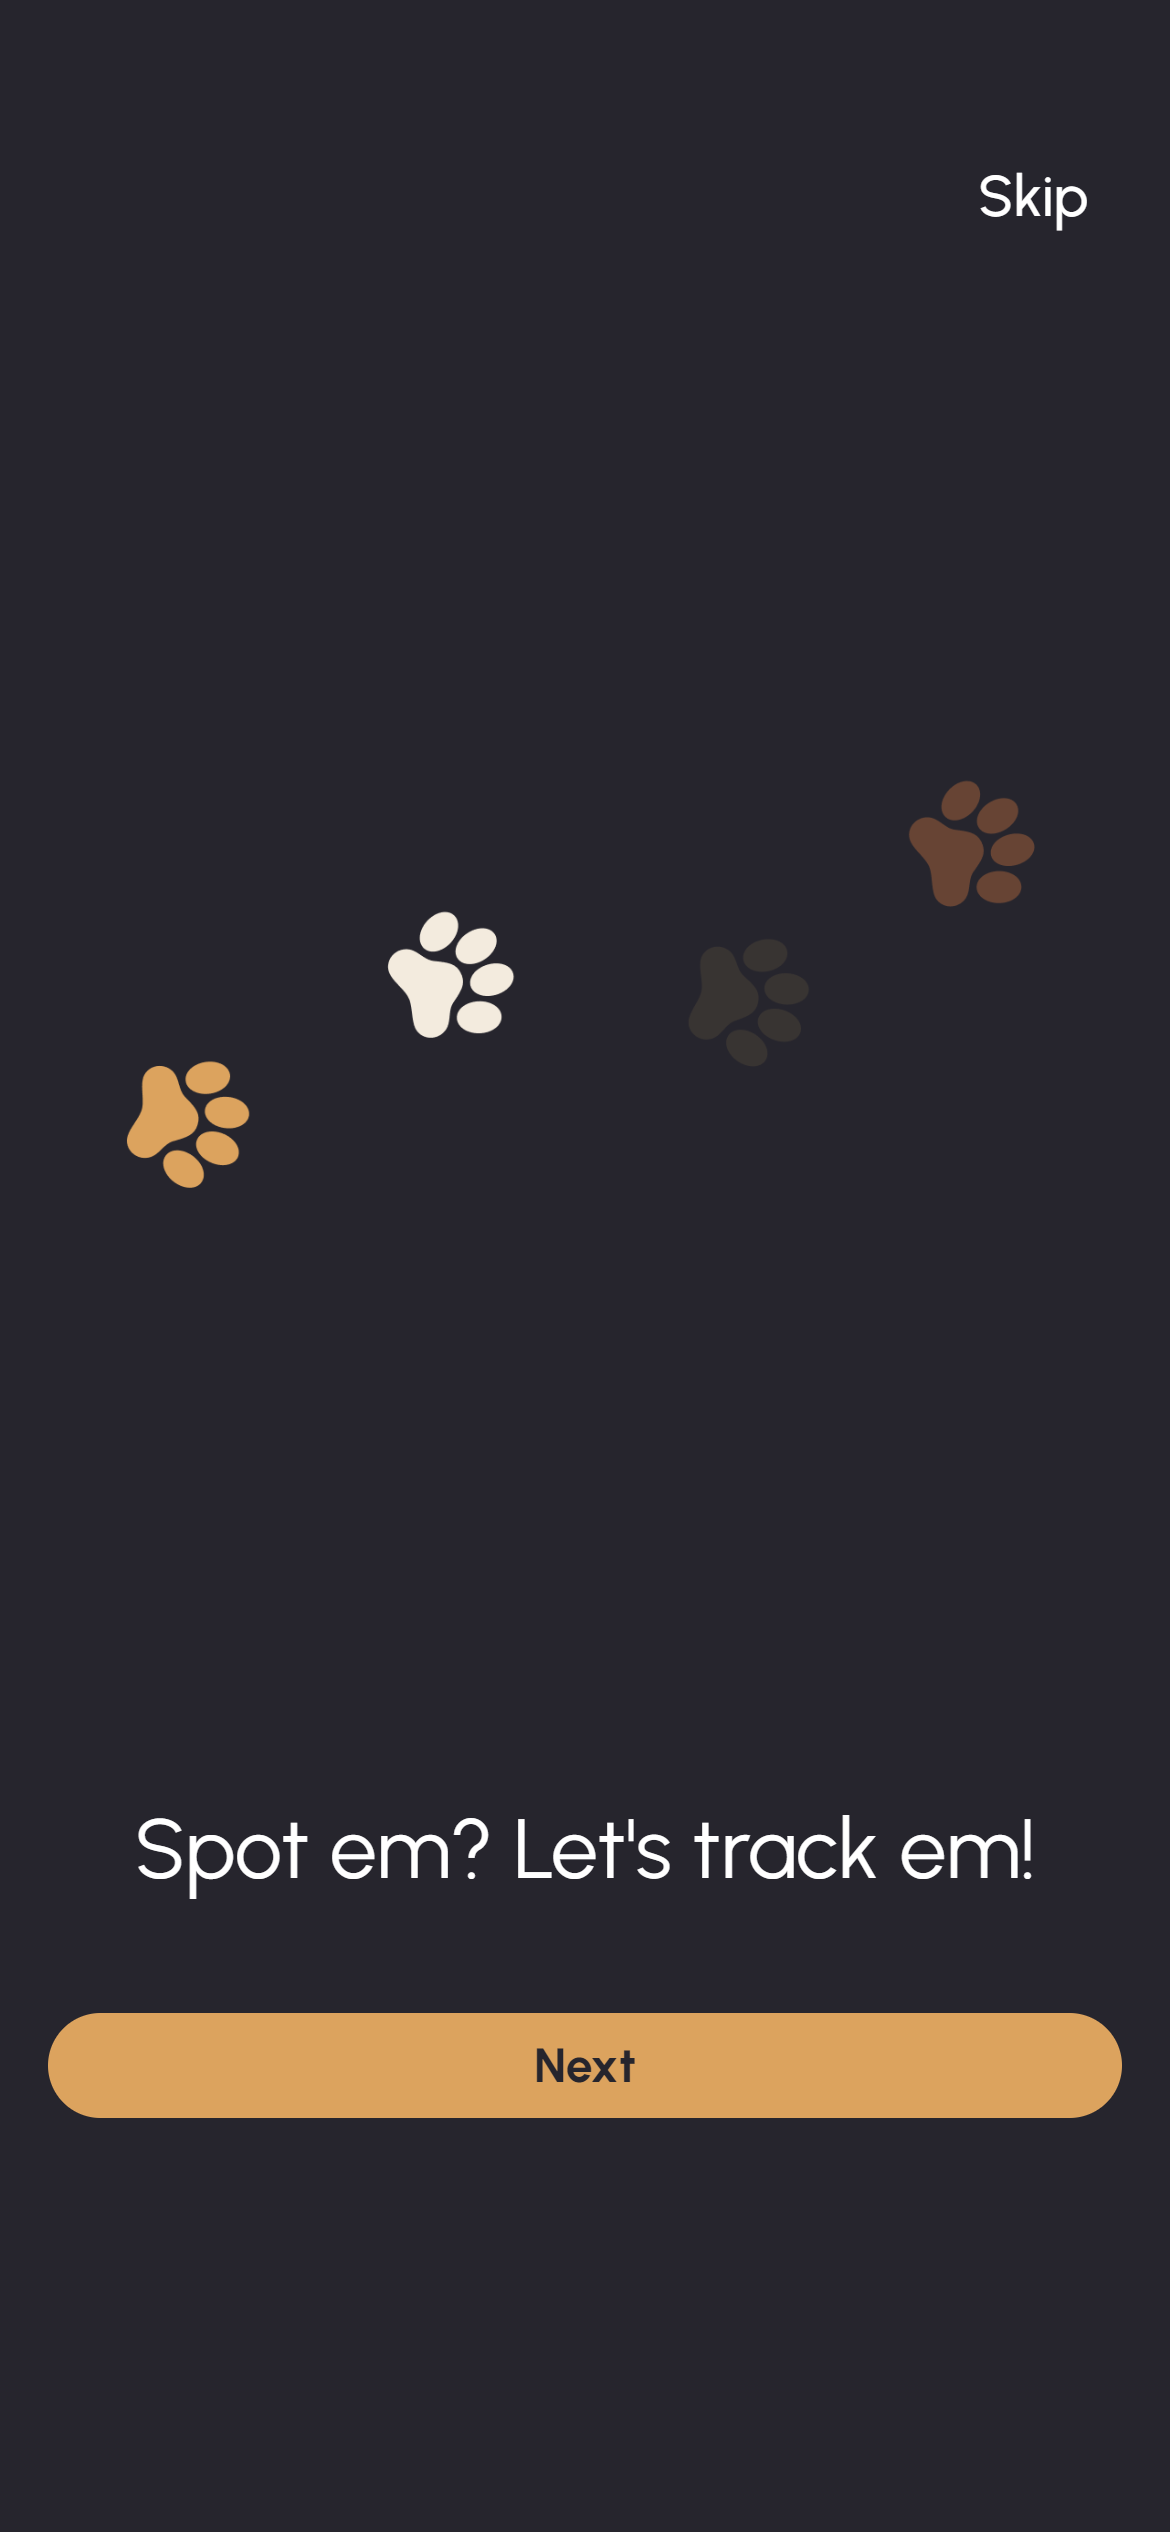
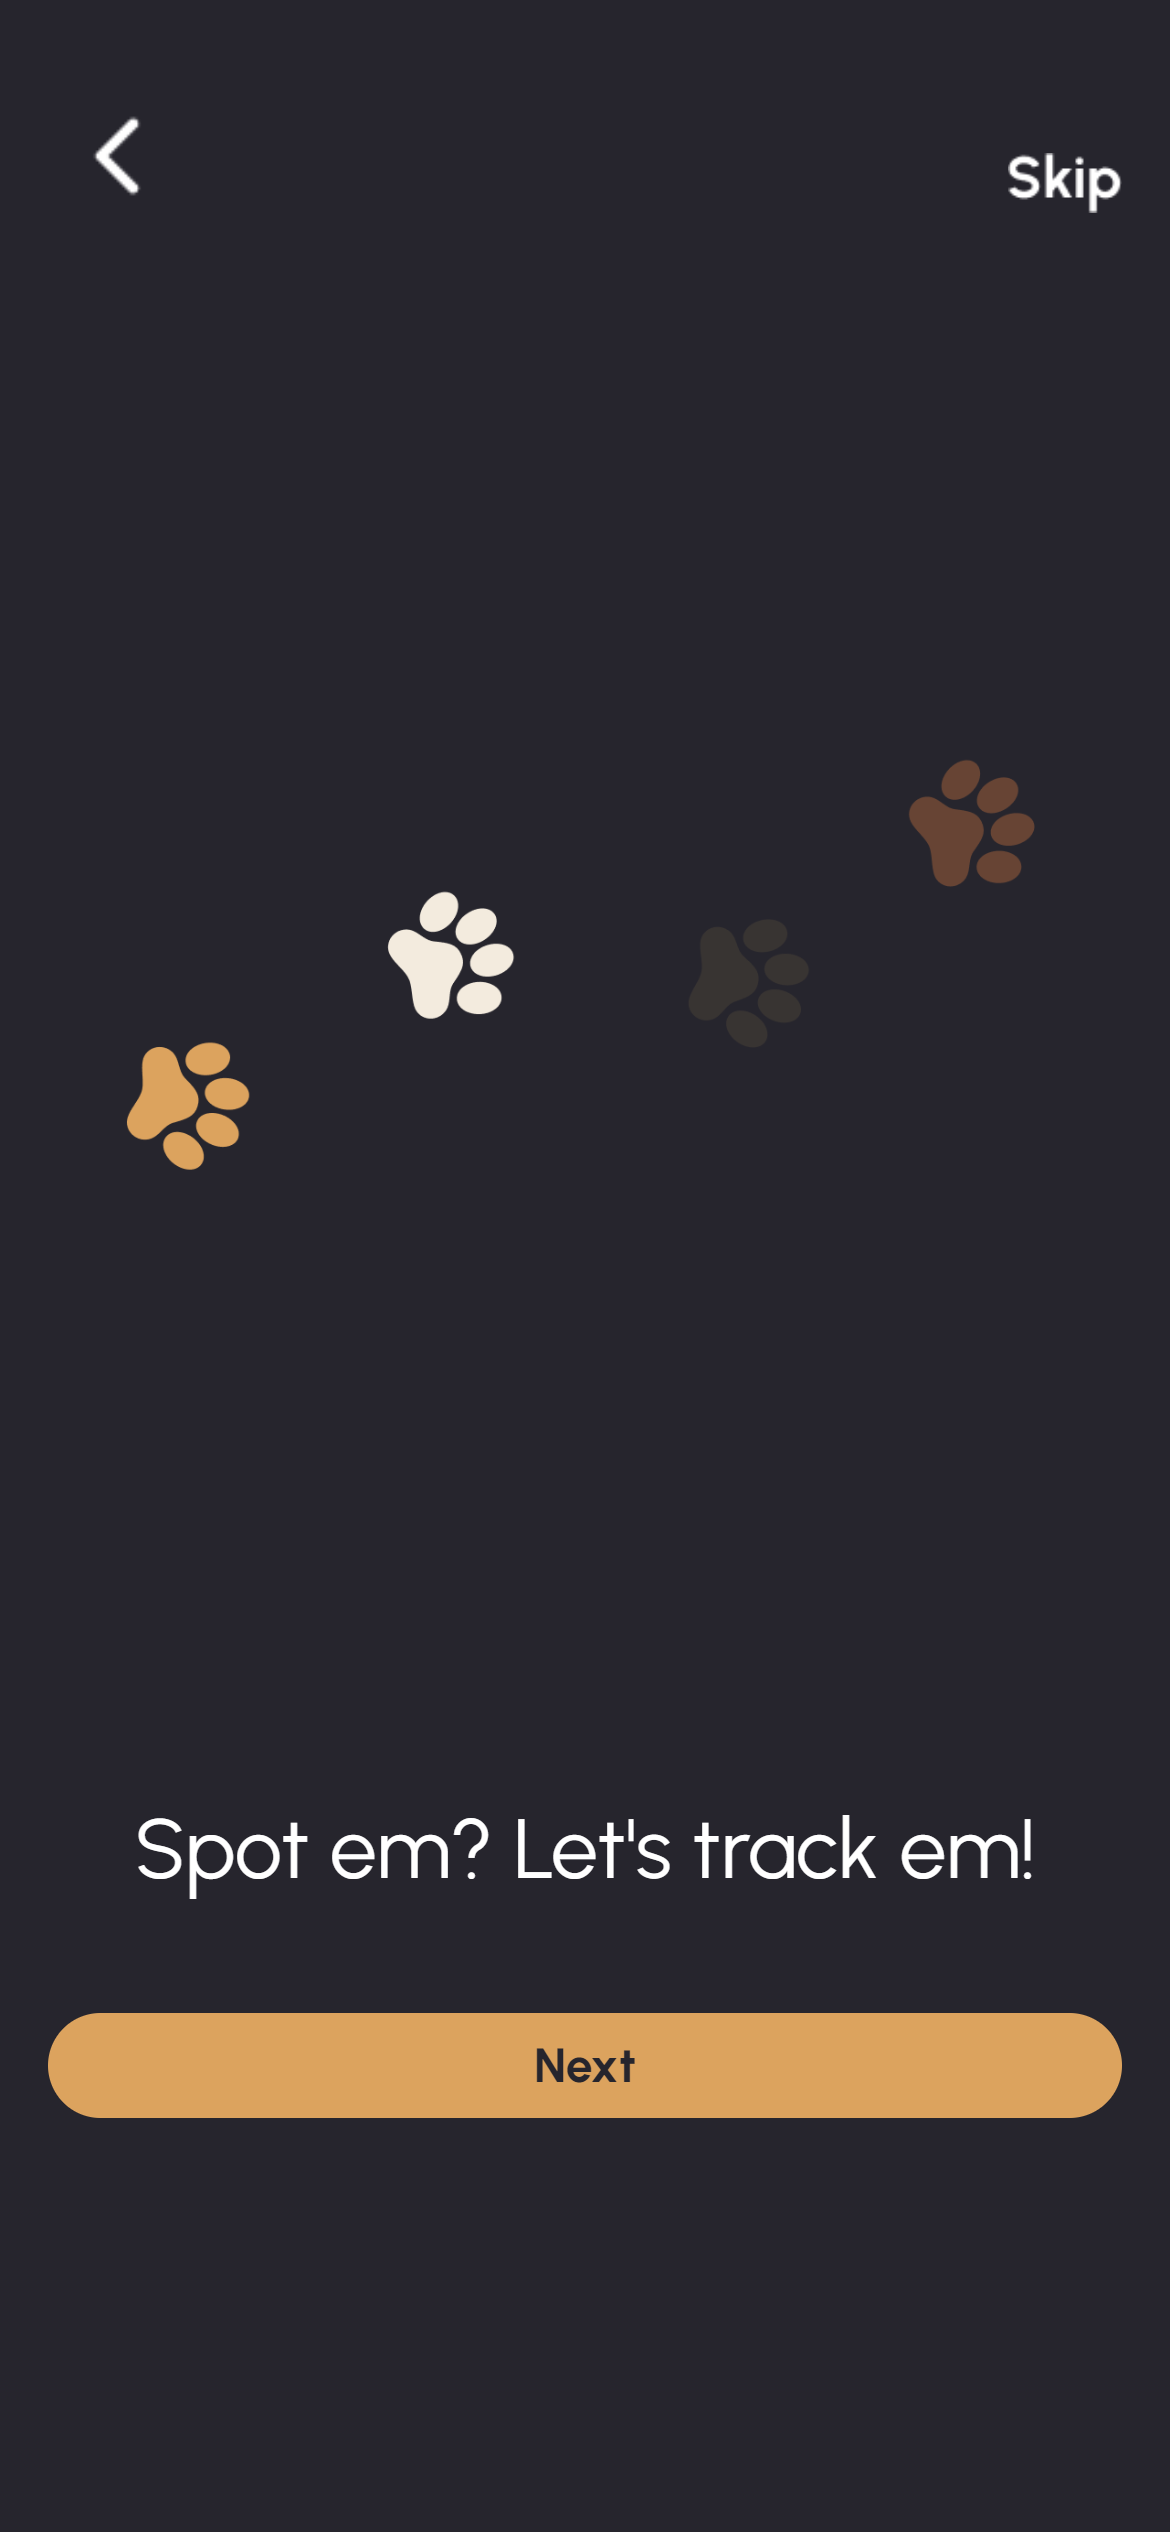
modified color and updated pages (included feedbacks)

diff --git a/index.html b/index.html
@@ -35,7 +35,7 @@
                 <div class="warning"></div>
                 <div class="form-control">
                     <label class="form-label" for="signin-username">Username</label>
-                    <input class="form-input" type="text" id="signin-username" data-role="none" placeholder="you@gmail.com">
+                    <input class="form-input" type="text" id="signin-username" data-role="none" placeholder="your username">
                 </div>
                 <div class="form-control">
                     <label class="form-label" for="signin-password">Password</label>
@@ -55,9 +55,11 @@
 
     <section data-role="page" id="onboarding-page">
         <header data-role="header">
-            <div class="" style="text-align:right; font-size: 1.2em; margin-right: 8px;">
-                <a href="#signup-page">Skip</a>
-            </div>
+            <ul>
+                <li><a href="#signin-page"> <img src="images/icons/goback.png" alt="" class="listadd"></a></li>
+                <li class="flex-stretch"></li>
+                <li><a href="#signup-page"> <img src="images/icons/skip.png" alt="" class="listadd"></a></li>
+            </ul>
         </header>
         <div data-role="main" class="display-flex flex-column">
             <div class="flex-stretch onboarding-hero">
@@ -77,9 +79,11 @@
 
 <section data-role="page" id="onboarding-page2">
     <header data-role="header">
-        <div class="" style="text-align:right; font-size: 1.2em; margin-right: 8px;">
-            <a href="#signup-page">Skip</a>
-        </div>
+        <ul>
+            <li><a href="#onboarding-page"> <img src="images/icons/goback.png" alt="" class="listadd"></a></li>
+            <li class="flex-stretch"></li>
+            <li><a href="#signup-page"> <img src="images/icons/skip.png" alt="" class="listadd"></a></li>
+        </ul>
     </header>
     <div data-role="main" class="display-flex flex-column">
         <div class="flex-stretch onboarding-hero">
@@ -106,7 +110,7 @@
             <form class="form" id="signup-form" data-ajax="false">
                 <div class="form-control">
                     <label class="form-label" for="signup-username">Username</label>
-                    <input class="form-input" type="text" id="signup-username" data-role="none" placeholder="you@gmail.com">
+                    <input class="form-input" type="text" id="signup-username" data-role="none" placeholder="your username">
                 </div>
                 <div class="form-control">
                     <label class="form-label" for="signup-password">Type a Password</label>
@@ -131,17 +135,16 @@
     <section data-role="page" id="recent-page">
         <div data-role="main">
             <div class="map"></div>
-
             <div class="floater bottom right">
-                <a href="#addjindo-page" class="btn-circle"><img src="images/icons/listadd.png" alt="" class="listadd"></a>
+                <a href="#addjindo-page" class="btn-circle"><img src="images/icons/listadd2.png" alt="" class="listadd"></a>
             </div>
         </div>
 
         <footer data-role="footer">
             <ul>
-                <li><a href="#recent-page"> <img src="images/icons/compasson.png" alt="" id="compass"></a></li>
-                <li><a href="#list-page"> <img src="images/icons/paw.png" alt="" id="paw"></a></li>
-                <li><a href="#user-profile-page"> <img src="images/icons/person.png" alt="" id="person"></a></li>
+                <li><a href="#recent-page"> <img src="images/icons/compasson.png" alt="" class="nav"></a></li>
+                <li><a href="#list-page"> <img src="images/icons/paw.png" alt="" class="nav"></a></li>
+                <li><a href="#user-profile-page"> <img src="images/icons/person.png" alt="" class="nav"></a></li>
             </ul>
         </footer>
    
@@ -150,7 +153,13 @@
 
     <!-- LISTS PAGE -->
     <section data-role="page" id="list-page">
-        <h1>Jindos</h1>
+        <header data-role="header">
+            <ul>
+                    <li><a href="#list-page"> <img src="images/icons/backhidden.png" alt="" class="listadd"></a></li>
+                    <li class="flex-stretch"></li>
+                    <li><a href="#addjindo-page"> <img src="images/icons/listaddyellow.png" alt="" class="listadd"></a></li>
+            </ul>
+        </header>
         <div data-role="main">
             <div class="animallist">
                 <div class="animallist-item">
@@ -183,9 +192,9 @@
 
         <footer data-role="footer">
             <ul>
-                <li><a href="#recent-page"> <img src="images/icons/compass.png" alt="" id="compass"></a></li>
-                <li><a href="#list-page"> <img src="images/icons/pawon.png" alt="" id="paw"></a></li>
-                <li><a href="#user-profile-page"> <img src="images/icons/person.png" alt="" id="person"></a></li>
+                <li><a href="#recent-page"> <img src="images/icons/compass.png" alt="" class="nav"></a></li>
+                <li><a href="#list-page"> <img src="images/icons/pawon.png" alt="" class="nav"></a></li>
+                <li><a href="#user-profile-page"> <img src="images/icons/person.png" alt="" class="nav"></a></li>
             </ul>
         </footer>
 
@@ -193,20 +202,27 @@
 
     <!-- USER PROFILE PAGE -->
     <section data-role="page" id="user-profile-page">
+        <header data-role="header">
+            <ul>
+                    <li><a href="#"> <img src="images/icons/backhidden.png" alt="" class="listadd"></a></li>
+                    <li class="flex-stretch"></li>
+                    <li><a href="#"> <img src="images/icons/chatyellow.png" alt="" class="listadd"></a></li>
+            </ul>
+        </header>
         <div data-role="main2">
         <div class="userprofile">
             <img src="images/profileimage.png" alt="" class="hero-icon2">
-            <div class="floater bottom right">
-                <a href="#" class="btn-circle" data-activate="#recent-add-modal"><img src="images/icons/chat.png" alt="" class="chat"></a>
-            </div>
             <div id="recent-add-modal" class="modal">
                 <div class="modal-back transparent" data-deactivate="#recent-add-modal"></div>
                 <div class="modal-drawer right">
                     <div class="modal-head">Hi Damien!</div>
-                    <div class="modal-body">How Can I Help You?</div>
+                    <div class="modal-body">How Can We Help You?</div>
                     <div class="modal-body">1. Help with your account?</div>
                     <div class="modal-body">2. Trouble with tracking?</div>
                     <div class="modal-body">3. Talk with an agent.</div>
+                    <div class="modal-body"></div>
+                    <div class="modal-body"></div>
+                    <div class="modal-body"></div>
                 </div>
             </div>
             <h1>Damien</h1>
@@ -234,9 +250,9 @@
     </div>
         <footer data-role="footer">
             <ul>
-                <li><a href="#recent-page"> <img src="images/icons/compass.png" alt="" id="compass"></a></li>
-                <li><a href="#list-page"> <img src="images/icons/paw.png" alt="" id="paw"></a></li>
-                <li><a href="#user-profile-page"> <img src="images/icons/personon.png" alt="" id="person"></a></li>
+                <li><a href="#recent-page"> <img src="images/icons/compass.png" alt="" class="nav"></a></li>
+                <li><a href="#list-page"> <img src="images/icons/paw.png" alt="" class="nav"></a></li>
+                <li><a href="#user-profile-page"> <img src="images/icons/personon.png" alt="" class="nav"></a></li>
             </ul>
         </footer>
     </section>
@@ -260,11 +276,11 @@
             <h1> Hi, I'm Jina! </h1>
         
             <div class="info">
-                <p>Color - White </p>
+                <p>Color - I am fluffy White.</p>
                 <hr>
-                <p>Temperament - Loyal and Intelligent</p>
+                <p>Temperament - I am Loyal and Intelligent!</p>
                 <hr>
-                <p>Location - San Francisco, CA</p>
+                <p>Location - San Francisco, CA.</p>
             </div>
         </div>
     </section>

diff --git a/src/css/app.css b/src/css/app.css
@@ -15,7 +15,6 @@
     --color-neutral-lighter: rgb(234, 238, 236);
     --color-neutral-light: rgb(194, 202, 198);
     --color-neutral-accent: #DCA35E;
-    --color-neutral-accent2: #A460DC;
     --color-neutral-medium: rgb(111, 121, 116);
     --color-neutral-dark: rgb(37, 44, 41);
 }
@@ -109,7 +108,7 @@ hr {
 
 [data-role="header"] {
     line-height: 8.2em;
-    height: 7em;
+    height: 6em;
     position: relative;
     overflow: hidden;
     z-index: 2;
@@ -210,7 +209,7 @@ hr {
     display: inline-block;
     width: 100%;
     font: inherit;
-    color: white;
+    color: #ffffff;
     letter-spacing: 1px;
 }
 .form-input2 {
@@ -223,7 +222,7 @@ hr {
     display: inline-block;
     width: 84%;
     font: inherit;
-    color: white;
+    color: #ffffff;
     letter-spacing: 1px;
 }
 input {
@@ -292,7 +291,6 @@ input {
 .hero-icon2 {
     width: 60vw;
     aspect-ratio: 1 / 1;
-    margin-top: 50px;
 }
 
 
@@ -307,17 +305,21 @@ input {
     background-size: cover;
 }
 
+.nav {
+    width:40px;
+}
+
 
 /* FLOATER */
 .floater { position:absolute; }
 .floater.top { top: 1rem; }
-.floater.right { right: 1rem; }
-.floater.bottom { bottom: 42.6rem; }
+.floater.right { right: 10.5rem; }
+.floater.bottom { bottom: 0.6rem; }
 .floater.left { left: 1rem; }
 
 .btn-circle {
     color: inherit;
-    background-color: #26252D;
+    background-color: #DCA35E;
     border-radius: 2rem;
     line-height: 3rem;
     font-size:2em;
@@ -325,7 +327,7 @@ input {
     height: 3rem;
     text-align:center;
     display: block;
-    /*box-shadow: 0.1em 0.1em 0.5em rgba(0,0,0,0.2);*/
+    box-shadow: 0.1em 0.1em 0.5em rgba(0, 0, 0, 0.2);
 }
 .btn-circle2 {
     color: #26252D;
@@ -493,6 +495,8 @@ input {
 /* USER PROFILE */
 .chat {
     width:34px;
+    margin-left: 0px;
+    margin-top: 6px;
 }
 .userprofile {
     height: 100%;
@@ -518,8 +522,8 @@ input {
 
 .listadd {
     margin-left: 4px;
-    margin-top: 6px;
-    width: 34px;
+    margin-top: 4px;
+    width: 38px;
 }
 
 .back {
@@ -539,5 +543,5 @@ input {
 
 .js-logout {
     text-align: left;
-    color: #a5a5a5;
+    color: var(--color-neutral-light);
 }
